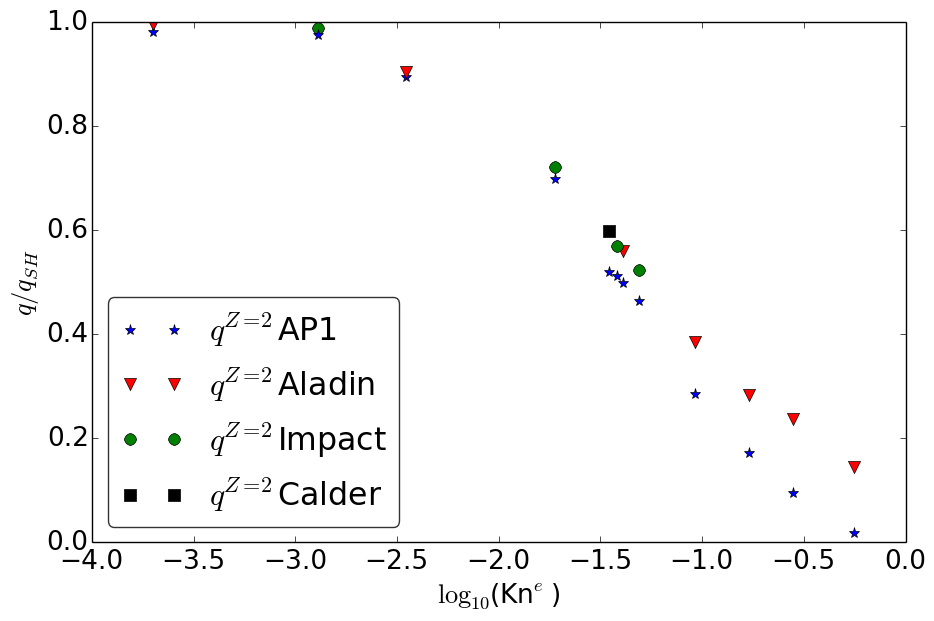
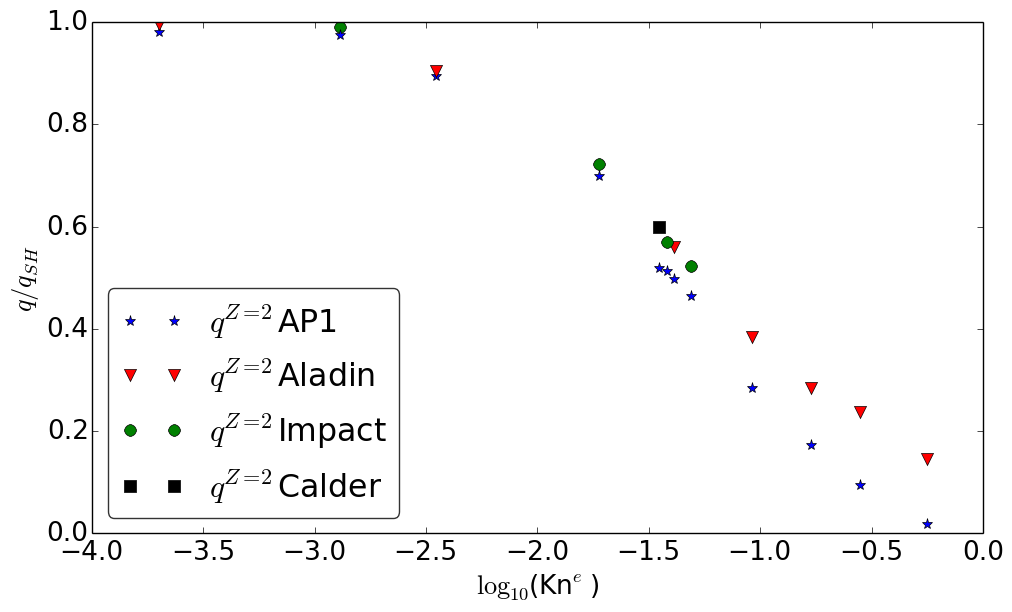
Improved figs of diffusive AWBS analysis.

diff --git a/CPCarticle/FP_diffusive_analysis.py b/CPCarticle/FP_diffusive_analysis.py
@@ -659,6 +659,7 @@ ax1.plot(vs_norm, qBGK1s, 'g-.', label=r'$q_1^{Z=1}$BGK')
 ax1.plot(vs_norm, qAWBS1s, 'r--', label=r'$q_1^{Z=1}$AWBS')
 ax1.plot(vs_norm, qSH19531s, 'k', label=r'$q_1^{Z=1}$SH')
 ax1.legend(loc='upper left', fancybox=True, framealpha=0.8)
+ax1.set_xlabel(r'$v / v_{th}$')
 ax1.set_ylabel(r'$q_1^{Z=1}$ [a.u.]')
 ax2 = ax1.twinx()
 ax2.plot(vs_norm, qLvAWBS1s, 'y', label=r'$q_1^{Z=116}$AWBS')
@@ -666,6 +667,7 @@ ax2.plot(vsLv_rough / vTh(Te), qLvBGK1s_rough, 'bx', label=r'$q_1^{Z=116}$Lorent
 ax2.legend(loc='upper right', fancybox=True, framealpha=0.8)
 ax2.set_ylabel(r'$q_1^{Z=116}$ [a.u.]')
 ax1.set_title('Distribution flux moment')
+fig.tight_layout()
 for ext in ["png", "pdf", "eps"]:
    print("saving q1s.%s" % (ext,))
    plt.savefig("q1s.%s" % (ext,), bbox_inches="tight")
@@ -719,6 +721,7 @@ plt.xlabel(r'$\log_{10}$(Kn$^e$)')
 plt.ylabel(r'$q/q_{SH}$')
 #plt.ylabel(r'$\log_{10}(q/q_{SH})$')
 plt.legend(loc='lower left', fancybox=True, framealpha=0.8)
+plt.tight_layout()
 for ext in ["png", "pdf", "eps"]:
    print("saving Kn_results.%s" % (ext,))
    plt.savefig("Kn_results.%s" % (ext,), bbox_inches="tight")
